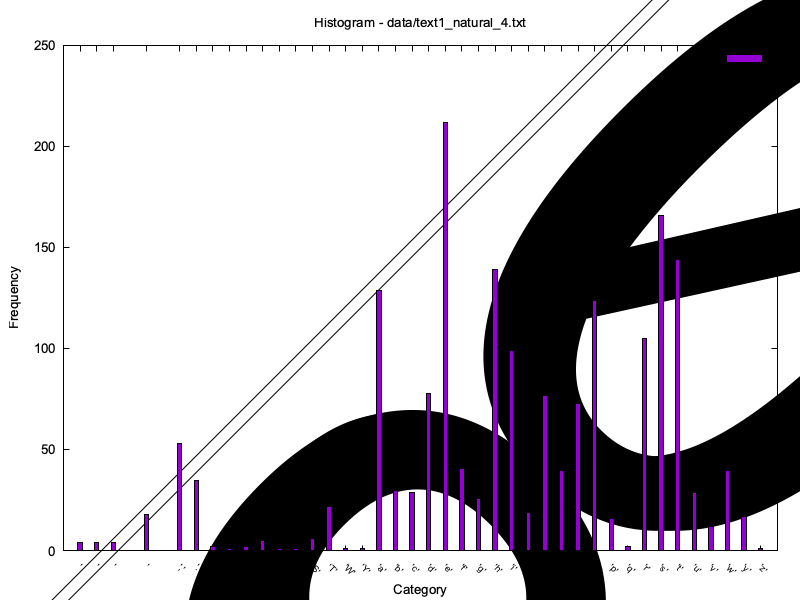
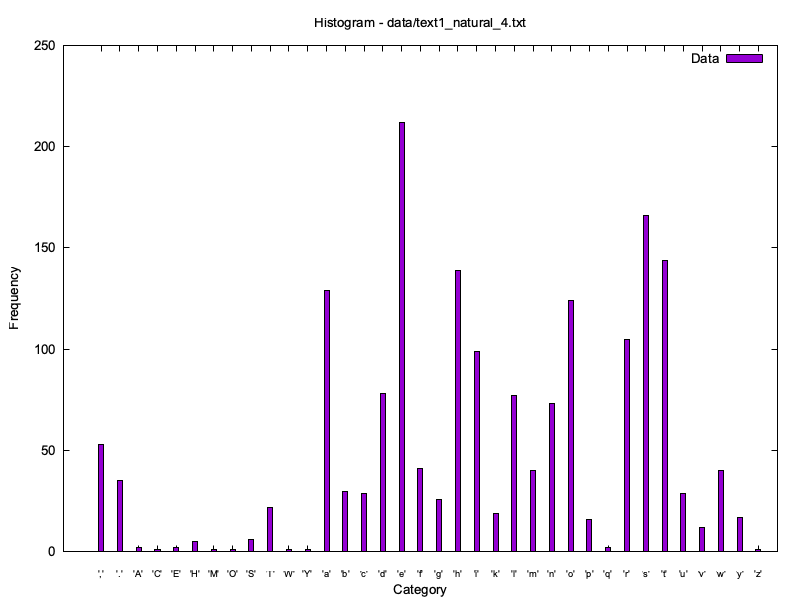
fix ASCII chars

diff --git a/TP1/src/explorer.cpp b/TP1/src/explorer.cpp
@@ -21,13 +21,18 @@ int Explorer::explore(const char* filename) {
     }
 
     int character;
-    while((character = getc(filePtr)) != EOF) frequency_[static_cast<char>(character)]++;
+    while((character = getc(filePtr)) != EOF) {
+        unsigned char b = static_cast<unsigned char>(character);
+        if (b < 32 || b == 127) continue;
+        if (b > 126) continue;
+        frequency_[b]++;
+    }
+    fclose(filePtr);
     currentFilename_ = filename;
     fCount_++;
     return 0;
 }
 
-#include <filesystem>
 
 int Explorer::draw() {
     if (frequency_.empty()) {
@@ -35,38 +40,33 @@ int Explorer::draw() {
         return 1;
     }
 
+    printf("LOG   > drawing out/histogram_%d.png\n", fCount_);
     FILE* gp = popen("gnuplot", "w");
     if (!gp) { std::cerr << "gnuplot not working\n"; return 1; }
 
-    // Clean state every time
     fprintf(gp, "reset session\n");
     fprintf(gp, "unset multiplot\n");
     fprintf(gp, "set encoding utf8\n");
 
-    // Write to file
     fprintf(gp, "set terminal pngcairo size 800,600 noenhanced font 'Arial,10'\n");
     fprintf(gp, "set output 'out/histogram_%d.png'\n", fCount_);
 
-    // Style
     fprintf(gp, "set style data histograms\n");
     fprintf(gp, "set style fill solid 1.0 border -1\n");
     fprintf(gp, "set boxwidth 0.8\n");
     fprintf(gp, "set yrange [0:*]\n");
 
-    // Use double quotes for title to avoid issues if filename has apostrophes
     fprintf(gp, "set title \"Histogram - %s\"\n", currentFilename_);
     fprintf(gp, "set xlabel 'Category'\n");
     fprintf(gp, "set ylabel 'Frequency'\n");
-    fprintf(gp, "set xtics font ',7' rotate by -45 offset 0,-0.5\n");
+    fprintf(gp, "set xtics font ',7' offset 0,-0.5\n");
 
-    // Data: col1=label (string), col2=value
     fprintf(gp, "plot '-' using 2:xtic(1) with histograms title 'Data'\n");
     for (auto it = frequency_.begin(); it != frequency_.end(); ++it) {
         fprintf(gp, "'%c' %d\n", it->first, it->second);
     }
     fprintf(gp, "e\n");
 
-    // Finish file cleanly
     fprintf(gp, "unset output\n");
     fflush(gp);
     pclose(gp);
